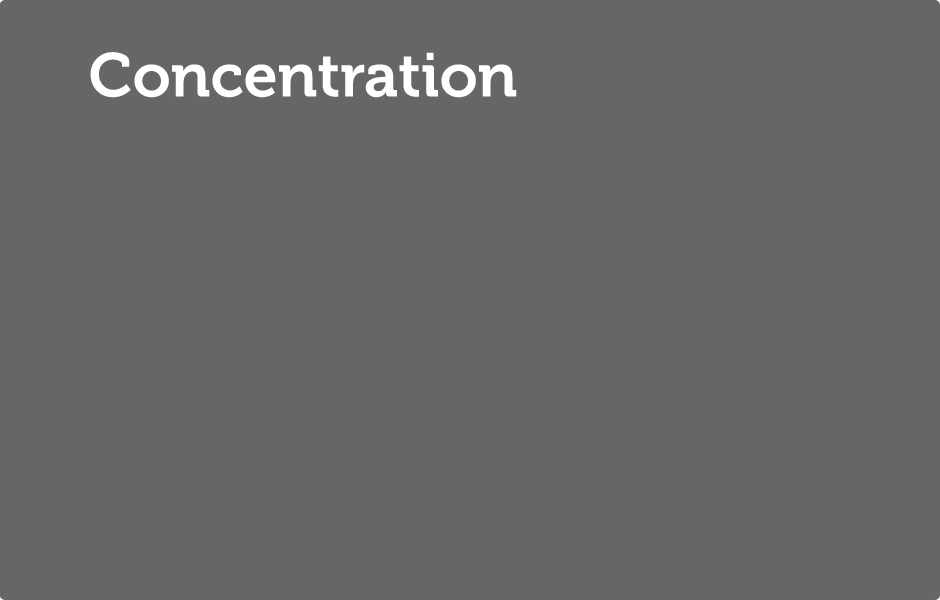
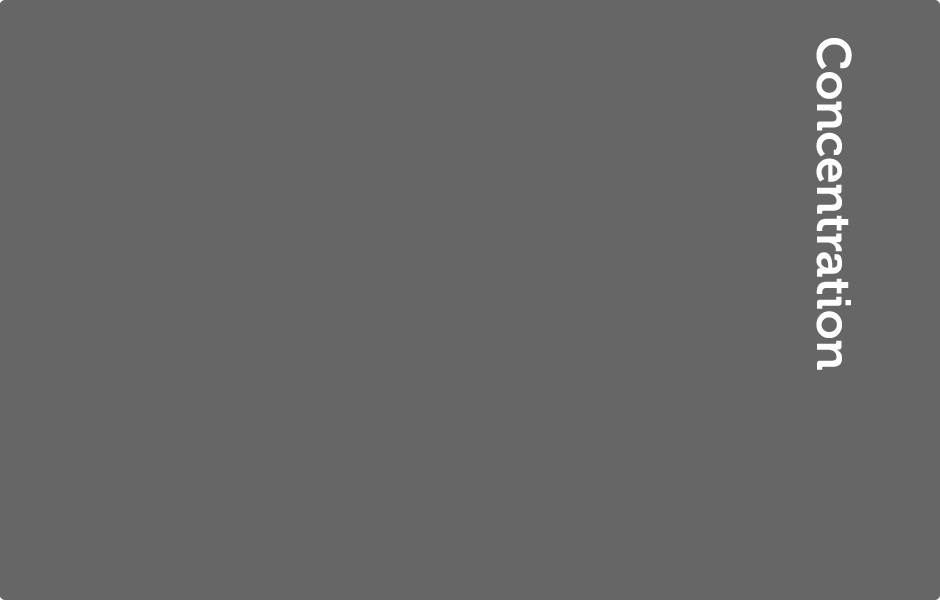
New BKG and positionning

Changed region(s): [[0.0926, 0.09, 0.5553, 0.18], [0.8638, 0.06, 0.9255, 0.63]]

diff --git a/js/mylibs/com/studywiz/players/SequencePlayer.js b/js/mylibs/com/studywiz/players/SequencePlayer.js
@@ -815,7 +815,7 @@ var SequencePlayer = new Class({
 
         options.style = {
             'top' : '60%',
-            'left' : (Main.VIDEO_LEFT +  padding) + 'px',
+            'left' : (Main.VIDEO_LEFT + padding) + 'px',
             'width' : (Main.VIDEO_WIDTH - 4 * padding) + 'px',
             'padding' : padding + 'px ' + padding + 'px ' + padding + 'px ' + padding + 'px'
         };
@@ -1289,21 +1289,25 @@ var SequencePlayer = new Class({
         });
         myDiv.inject($m(Main.DIV_ID));
 
-        step.media.image.options.style.width = Main.WIDTH + "px";
-        step.media.image.options.style.height = Main.HEIGHT + "px";
+        /* step.media.image.options.style.width = Main.VIDEO_WIDTH + "px";
+         step.media.image.options.style.height = Main.VIDEO_HEIGHT + "px";
+         step.media.image.options.style.left = Main.VIDEO_LEFT + "px";
+         step.media.image.options.style.top = Main.VIDEO_TOP + "px";
 
+         */
         step.media.image.add(myContainerID);
         step.media.image.show();
 
-        var moduleTitle = new Element("h1", {
-            html : this.moduleInfo.moduleTitle,
-            styles : {
-                left : '0px',
-                top : '20%'
-            },
-            'class' : 'module-title no-select'
-        });
-        moduleTitle.inject(myDiv);
+        /* var moduleTitle = new Element("h1", {
+         html : this.moduleInfo.moduleTitle,
+         styles : {
+         left : '0px',
+         top : '20%'
+         },
+         'class' : 'module-title no-select'
+         });
+         moduleTitle.inject(myDiv);
+         */
 
         if (this.sequenceState.completed == true) {
             step.media.previewImage.add(myContainerID);
